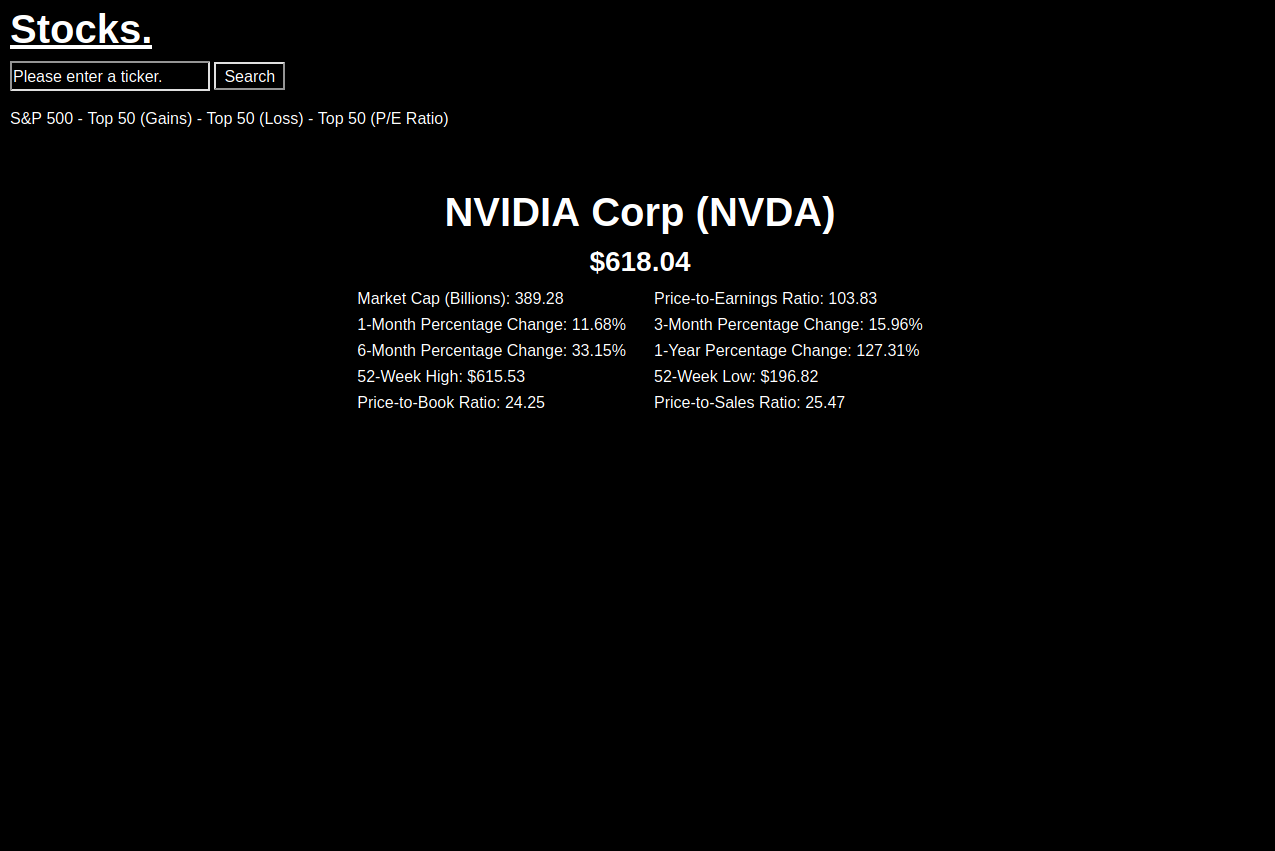
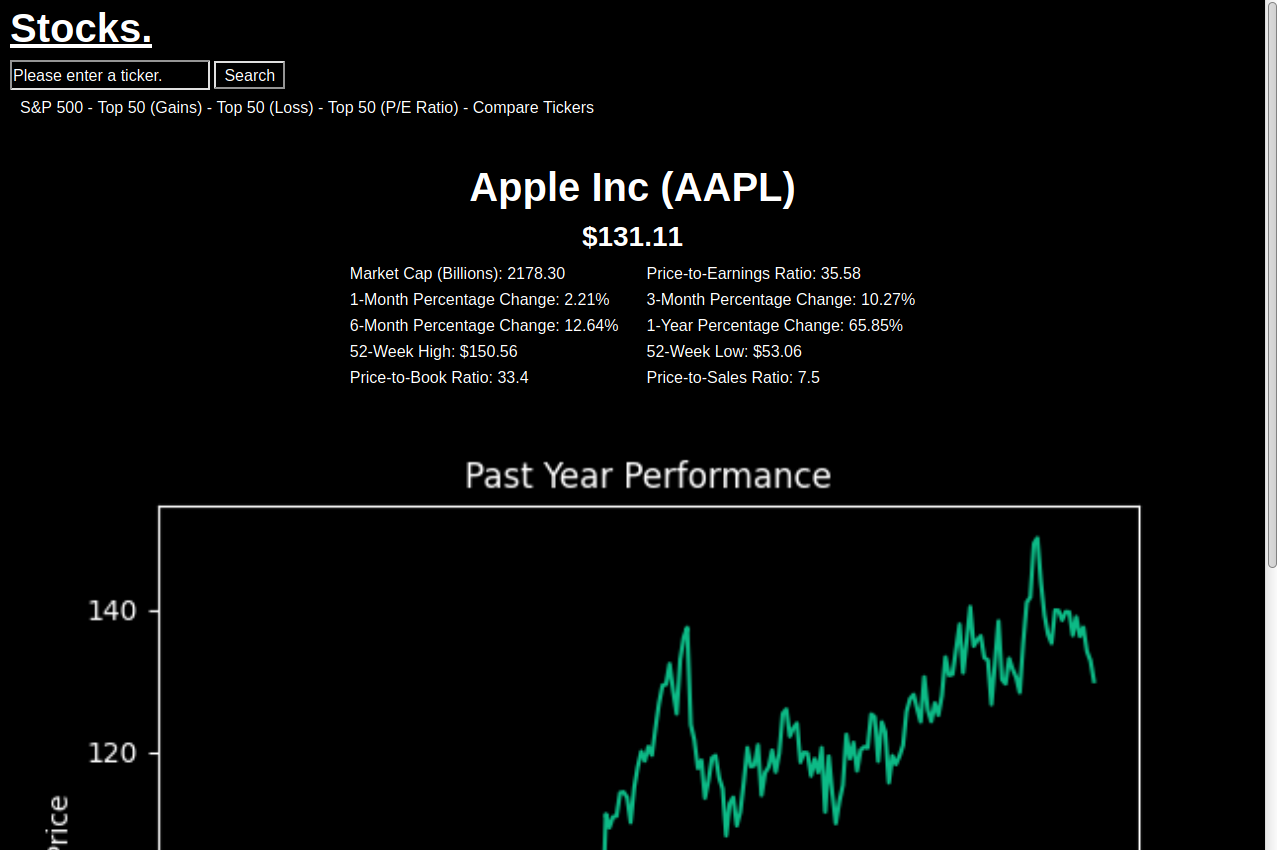
ss and settings updated

diff --git a/staticfiles/styles.css b/staticfiles/styles.css
@@ -3,7 +3,7 @@
   background:black;
 }
 
-body{
+html, body{
   width:100%;
 }
 
@@ -18,11 +18,7 @@ body{
 
 .front-header{
   text-align: left;
-  overflow:auto;
   padding:5px 10px 10px 10px;
-  position:fixed;
-  top:0;
-  width:100%;
 }
 
 a{
@@ -34,8 +30,18 @@ a:hover{
   color:#0dba86;
 }
 
+.center-image{
+  display:block;
+  margin-left:auto;
+  margin-right:auto;
+}
+
 .buttons{
   padding-left:10px;
+}
+
+.buffer{
+  padding-top:140px;
 }
 
 .btn-primary{
@@ -56,8 +62,4 @@ a:hover{
 
 .dataframe th{
   border:5px;
-}
-
-.fixed-top{
-  position:fixed !important;
 }

diff --git a/manage.py b/manage.py
@@ -6,7 +6,7 @@ import sys
 
 def main():
     """Run administrative tasks."""
-    os.environ.setdefault('DJANGO_SETTINGS_MODULE', 'stock_django.settings.dev_settings')
+    os.environ.setdefault('DJANGO_SETTINGS_MODULE', 'stock_django.settings.production_settings')
     try:
         from django.core.management import execute_from_command_line
     except ImportError as exc:

diff --git a/readme.md b/readme.md
@@ -31,3 +31,4 @@ If in production, you can assign the API key and secret key to environmental var
 
 ![ss1](/screenshots/1.png?raw=true)
 ![ss2](/screenshots/2.png?raw=true)
+![ss3](/screenshots/3.png?raw=true)
